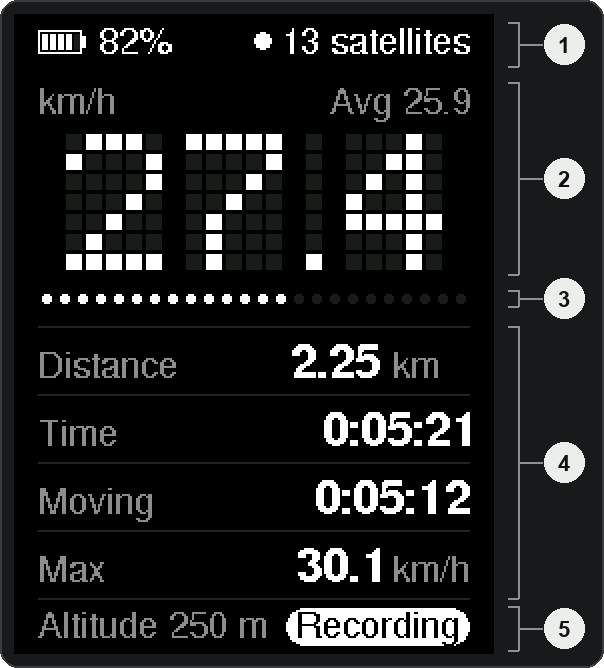
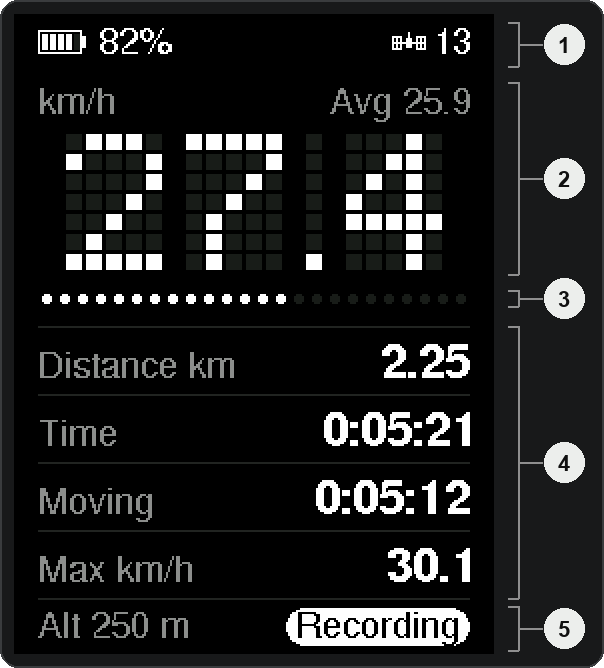
labels update

diff --git a/README.md b/README.md
@@ -31,11 +31,11 @@ The trip starts with the first wheel pulse. GPS recording begins when the firmwa
 
 The portrait layout keeps current speed largest, with supporting information underneath:
 
-1. **Status bar:** battery level on the left; satellite count, or “Searching” until there is a fix, on the right.
+1. **Status bar:** battery level on the left; a satellite icon with the satellite count, or “Searching” until there is a fix, on the right.
 2. **Dot-matrix speed:** km/h or mph (from `units`). The line above it shows the unit and **Avg**; it also carries prompts such as “Hold for new ride” and “Press to allow”.
 3. **24-dot gauge:** normally speed, at 2 km/h per dot, so it is full from about 47 km/h. It also shows hold-to-save, phone-confirm and download progress.
-4. **Ride stats:** Distance, Time, Moving and Max (distance/speed units follow `units`). Distance switches to one decimal from 100.
-5. **Footer:** altitude (m or ft, `--` without a fix) and a status such as `Recording`, `Phone` or `No card`.
+4. **Ride stats:** Distance, Time, Moving and Max. The distance and speed units sit in the labels and follow `units`. Distance switches to one decimal from 100.
+5. **Footer:** altitude as **Alt** (m or ft, `--` without a fix) and a status such as `Recording`, `Phone` or `No card`.
 
 **Time** is elapsed time since the trip began, including stops while powered on. Time spent powered off is not added after recovery. **Moving** is estimated from wheel pulses using `stopped_ms` (default three seconds); **Avg** divides wheel distance by that estimated moving time.
 
@@ -57,7 +57,7 @@ The top left shows a five-bar battery icon and the charge as a percentage. The p
 | Top right | Meaning |
 | --- | --- |
 | <img src="docs/screens/status-searching.png" width="250" alt="Status bar reading Searching with a hollow ring"> | No usable fix yet, or the GPS has gone quiet for 2 seconds. Wheel stats keep working; nothing is recorded. |
-| <img src="docs/screens/status-satellites.png" width="250" alt="Status bar reading 11 satellites with a filled dot"> | Live fix, with the number of satellites in use. |
+| <img src="docs/screens/status-satellites.png" width="250" alt="Status bar showing a satellite icon and 11"> | Live fix, with the number of satellites in use. |
 | <img src="docs/screens/status-gps.png" width="250" alt="Status bar reading GPS with a filled dot"> | Live fix from a receiver that does not report a satellite count. |
 
 ### Footer status
